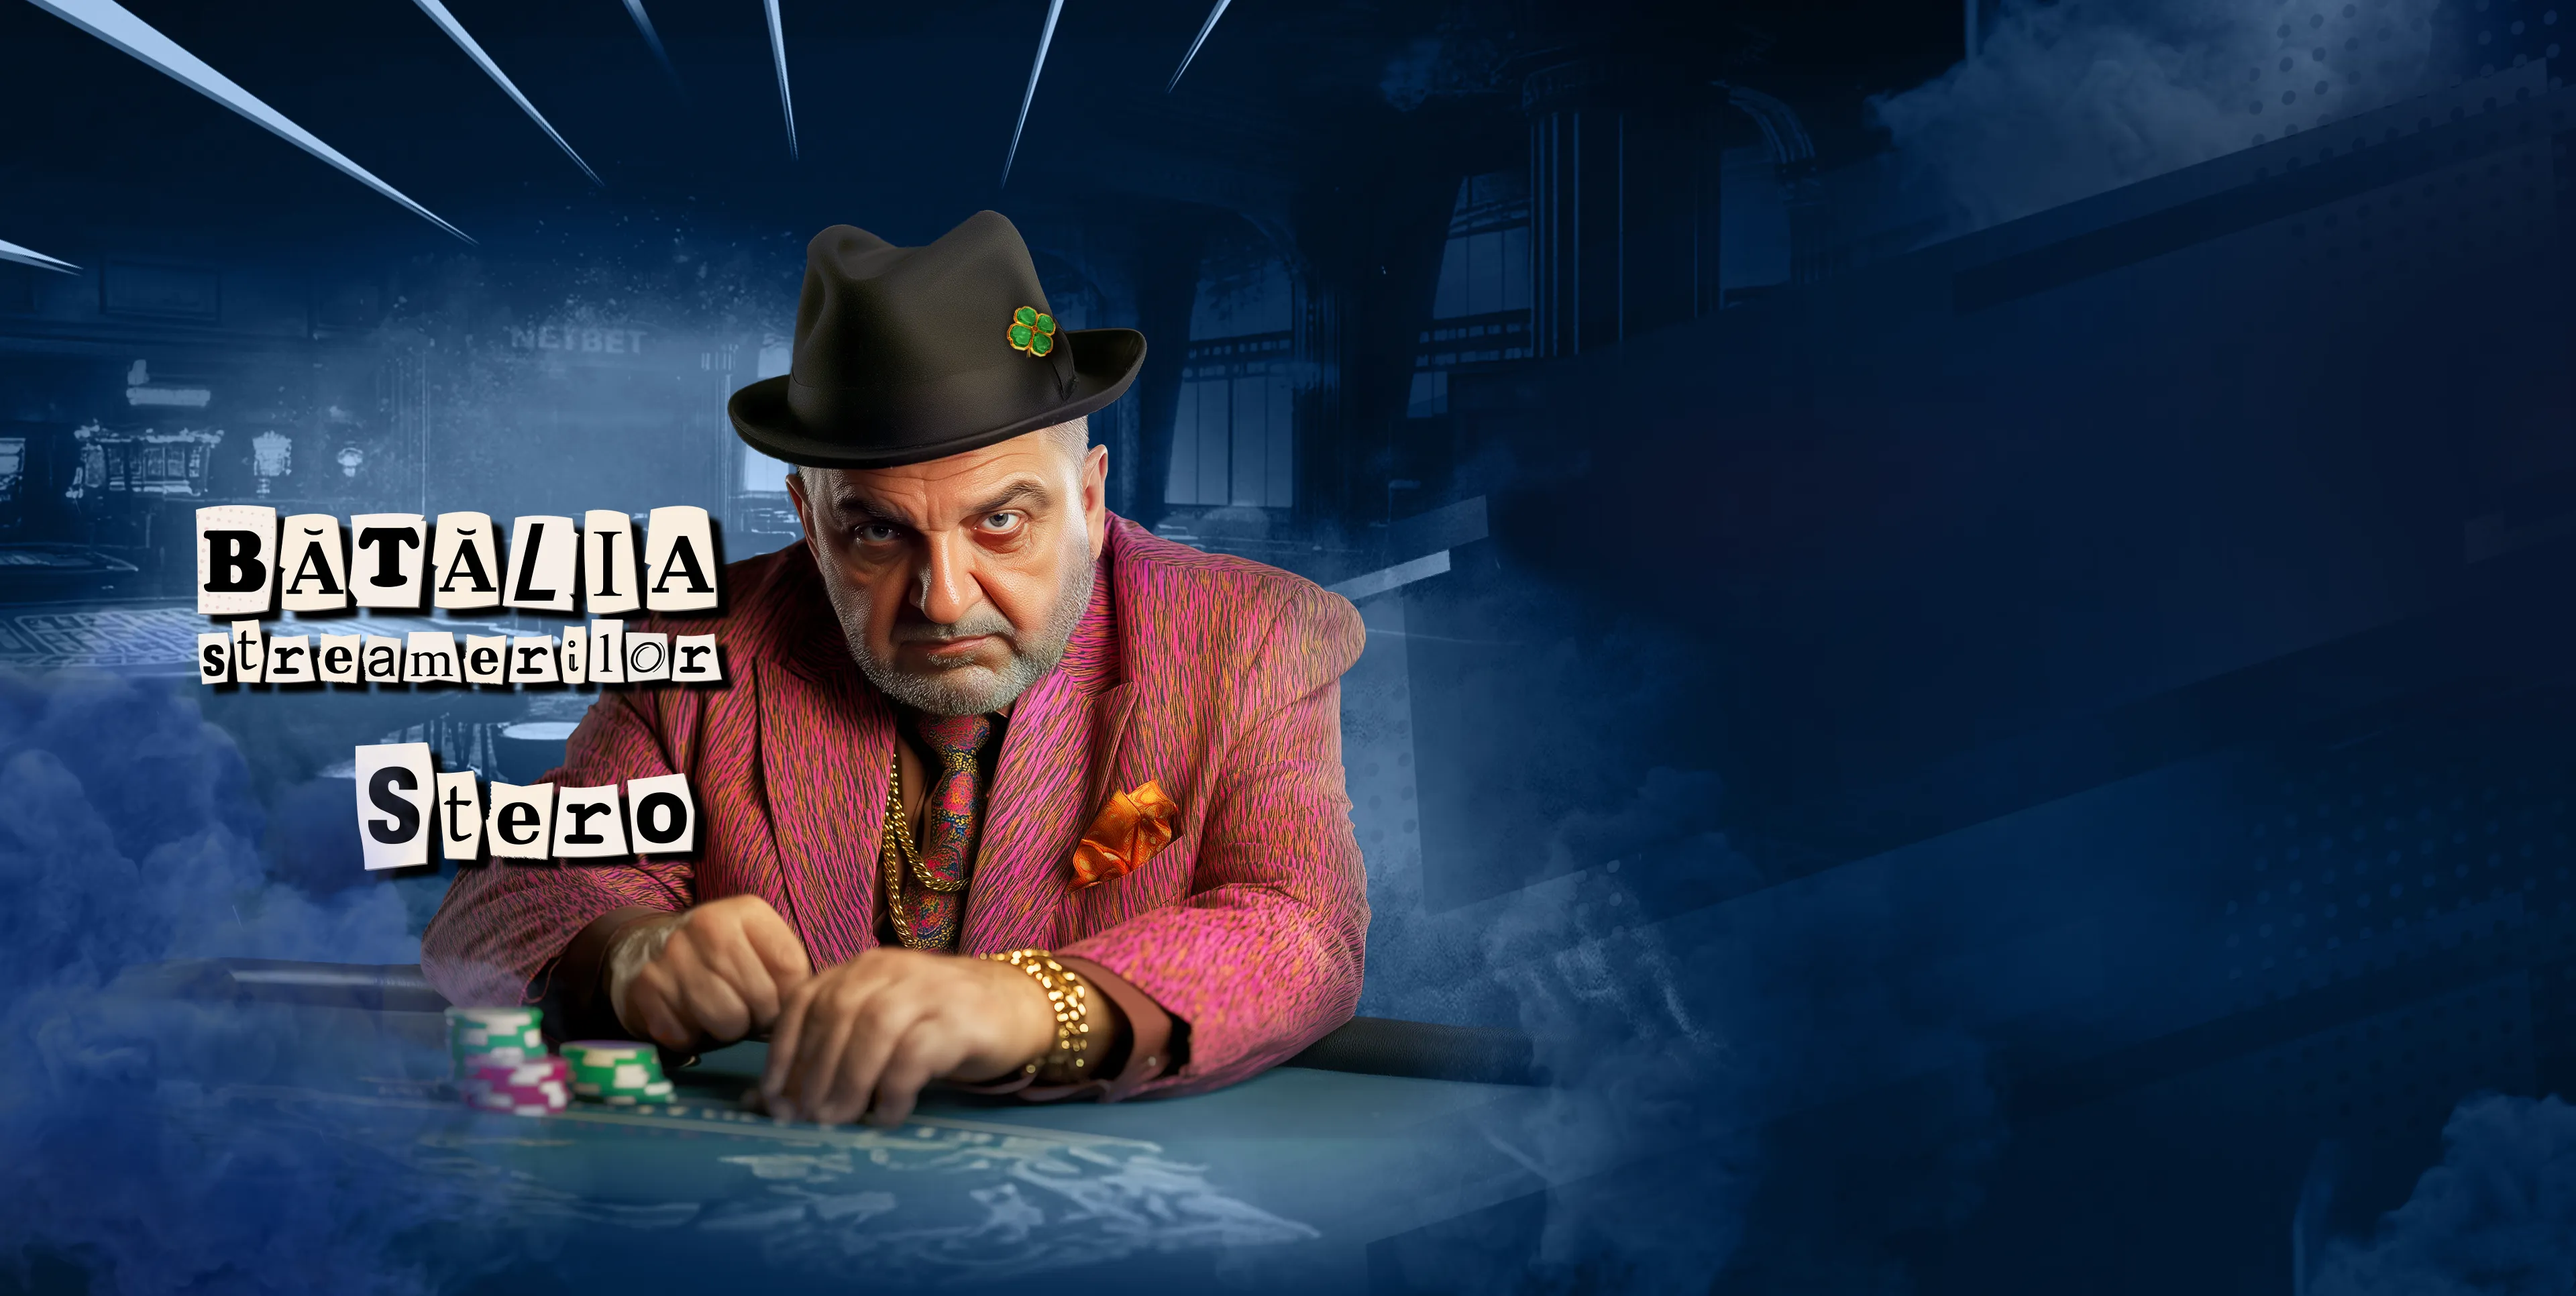
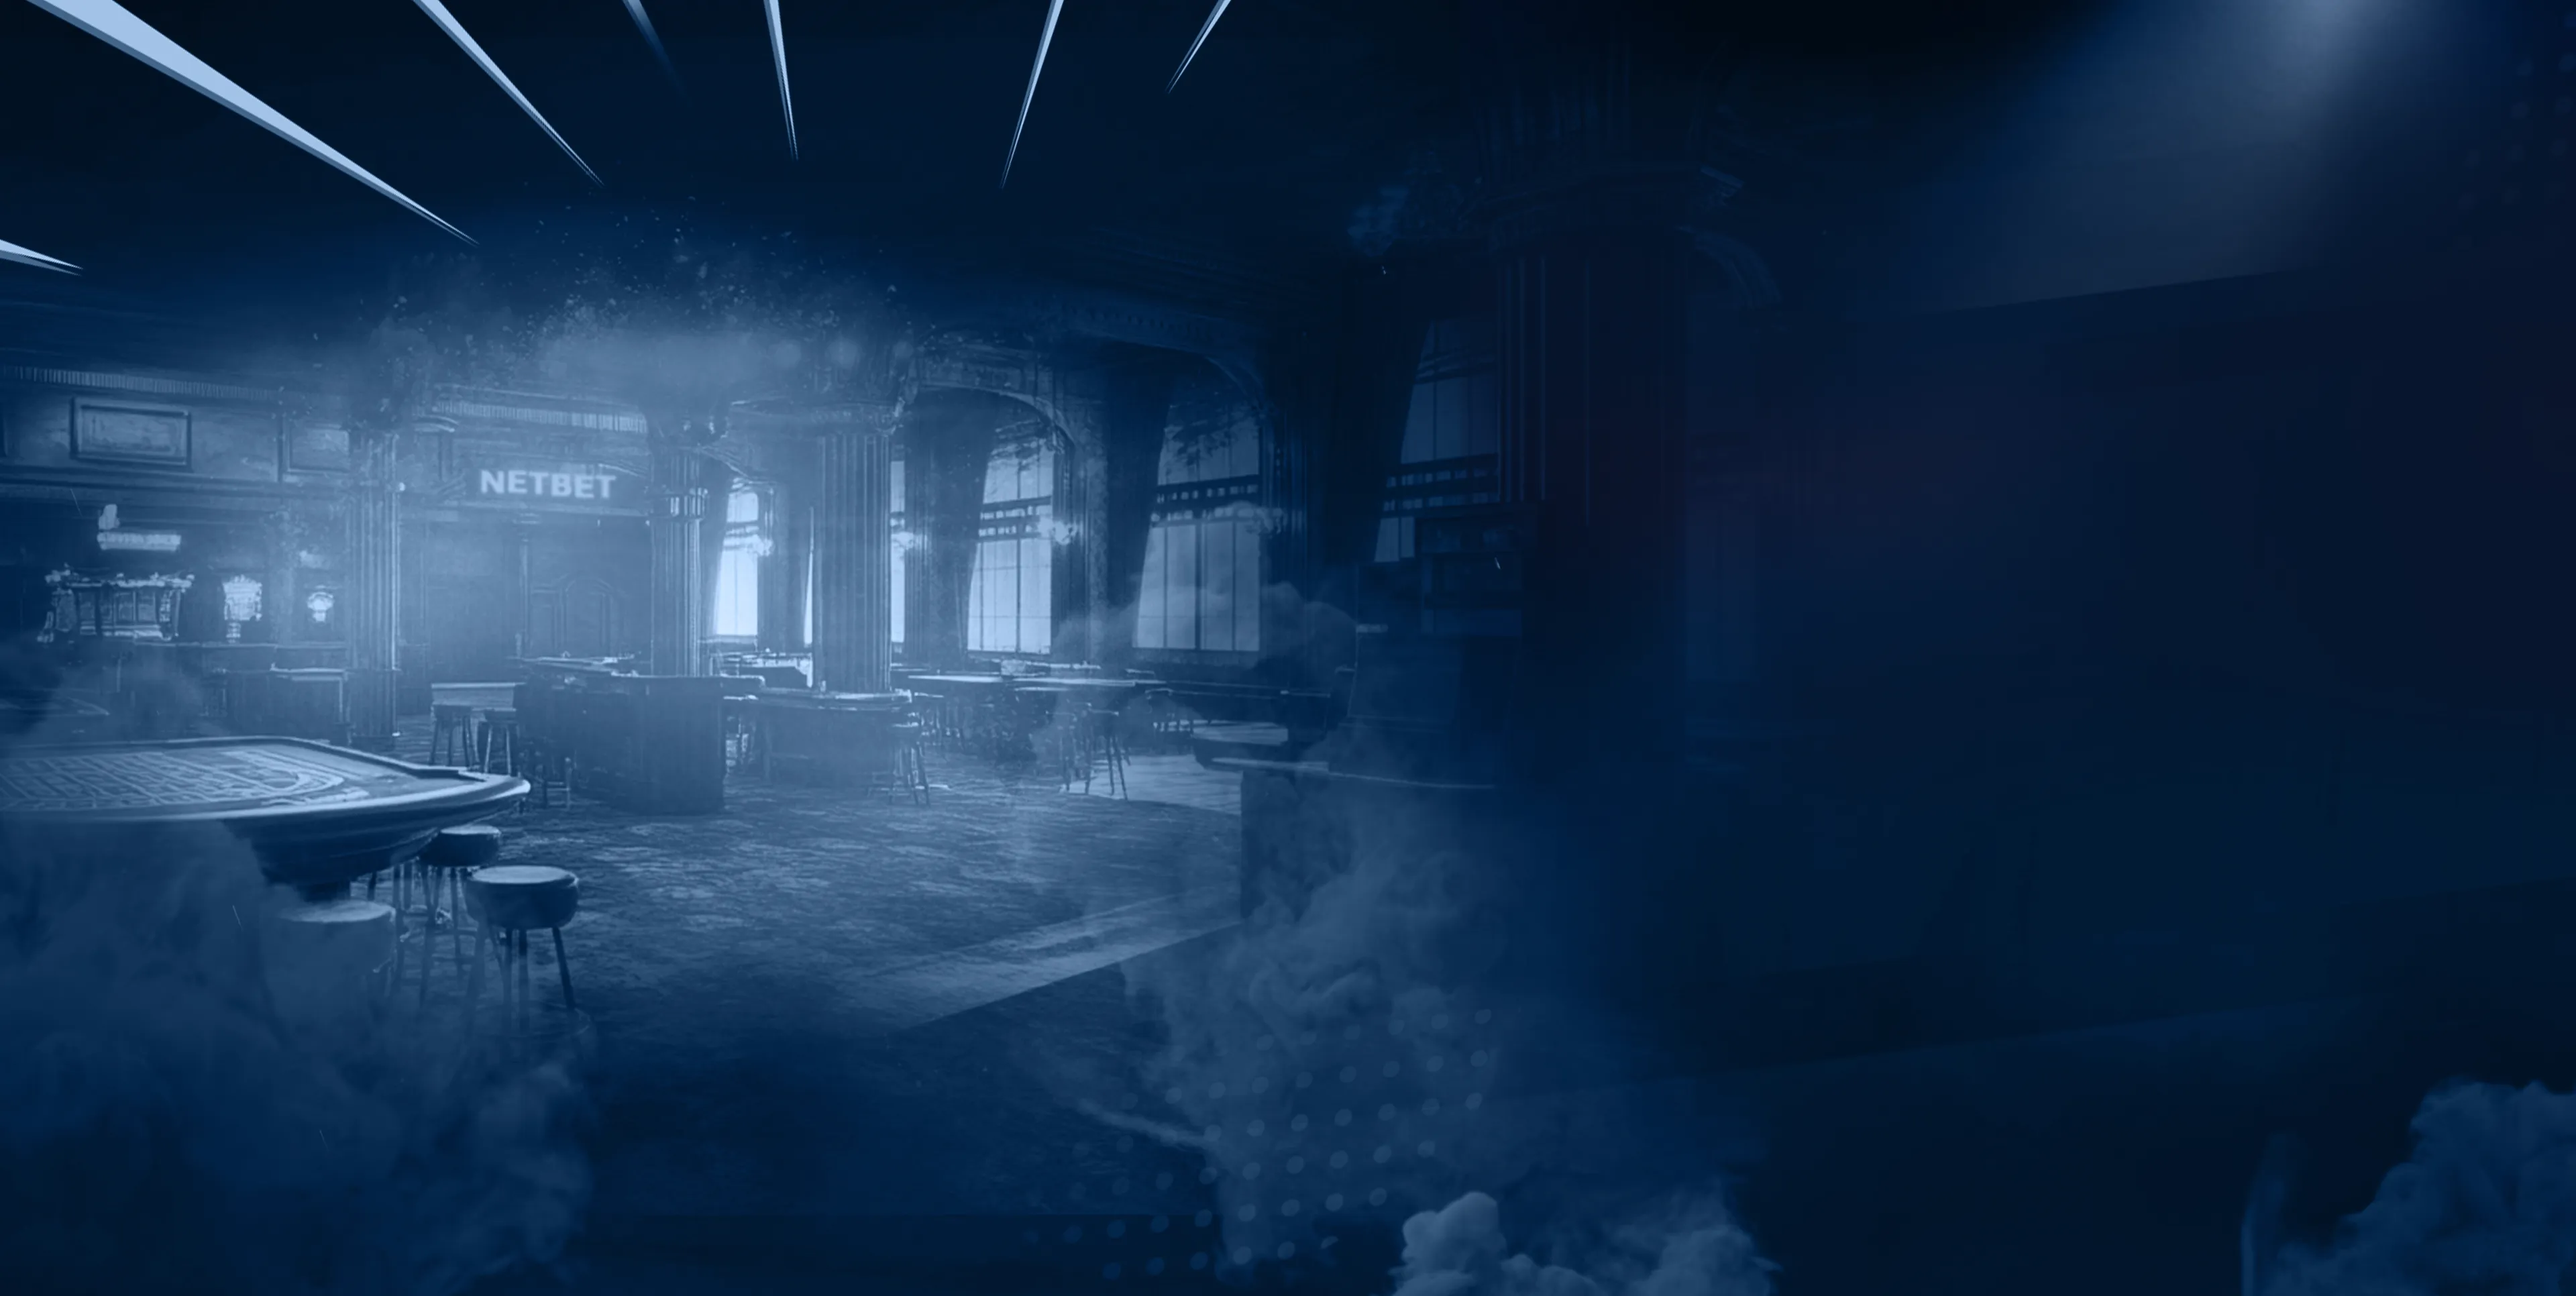
add api and design

diff --git a/batalia-streamerilor-2024/api.js b/batalia-streamerilor-2024/api.js
@@ -1,0 +1,139 @@
+const token = 'testcozmin'; // Replace with actual token
+const baseURL = 'https://qaadmin.livepartners.com/api/streaming/';
+const headers = {
+    'Authorization': `Bearer ${token}`, // Include Bearer token
+    'Content-Type': 'application/json'  // Set content type
+};
+
+// Utility function to make AJAX requests
+function apiRequest(endpoint, method, data = null) {
+    return $.ajax({
+        url: baseURL + endpoint,
+        type: method,
+        headers: headers, // Include headers in the request
+        data: data ? JSON.stringify(data) : null, // Serialize data if present
+        success: function(response) {
+            console.log(`Success: ${method} ${endpoint}`, response);
+        },
+        error: function(xhr, status, error) {
+            console.error(`Error: ${method} ${endpoint}`, {
+                status: status,
+                message: xhr.responseText,
+                error: error
+            });
+            if (xhr.status === 401) {
+                console.error('Unauthorized! Check your token or CORS settings.');
+            } else if (xhr.status === 403) {
+                console.error('Forbidden! You do not have permission to access this resource.');
+            } else if (xhr.status === 0) {
+                console.error('Network Error. CORS issue likely.');
+            }
+        }
+    });
+}
+
+// Function to add a new player
+function addPlayer(username) {
+    return apiRequest(`optin/${username}`, 'POST')
+        .then(response => {
+            console.log(`Player ${username} added:`, response);
+        })
+        .catch(error => {
+            console.error(`Failed to add player ${username}:`, error);
+        });
+}
+
+// Function to delete a player
+function deletePlayer(username) {
+    return apiRequest(`optout/${username}`, 'DELETE')
+        .then(response => {
+            console.log(`Player ${username} deleted.`);
+        })
+        .catch(error => {
+            console.error(`Failed to delete player ${username}:`, error);
+        });
+}
+
+// Function to check if player exists
+function checkPlayerExists(username) {
+    return apiRequest(`check/${username}`, 'GET')
+        .then(response => {
+            console.log(`Player ${username} exists:`, response);
+            return response; // This should return true/false based on API response
+        })
+        .catch(error => {
+            console.error(`Failed to check player ${username}:`, error);
+            return false; // Return false on error
+        });
+}
+
+// Function to get player statistics
+function getPlayerStats(filter = true) {
+    const endpoint = filter ? 'data/' : 'data/0';
+    return apiRequest(endpoint, 'GET')
+        .then(response => {
+            console.log('Player statistics:', response);
+        })
+        .catch(error => {
+            console.error('Failed to get player statistics:', error);
+        });
+}
+
+// Function to get player data for testing
+function getPlayerData(username = null) {
+    const endpoint = username ? `get/${username}` : 'get/';
+    return apiRequest(endpoint, 'GET')
+        .then(response => {
+            console.log(`Player data ${username ? `for ${username}` : ''}:`, response);
+        })
+        .catch(error => {
+            console.error(`Failed to get player data ${username ? `for ${username}` : ''}:`, error);
+        });
+}
+
+// Function to set streamer status
+function setStreamerStatus(username, status) {
+    return apiRequest(`streamer/${username}/${status}`, 'POST')
+        .then(response => {
+            console.log(`Streamer status for ${username} set to ${status}:`, response);
+        })
+        .catch(error => {
+            console.error(`Failed to set streamer status for ${username}:`, error);
+        });
+}
+
+// Example Usage
+async function exampleUsage() {
+    const username = 'billos13';
+
+    try {
+        // Check if player exists
+        const playerExists = await checkPlayerExists(username);
+
+        if (!playerExists) {
+            // Add player if not exists
+            await addPlayer(username);
+        }
+
+        // Get player stats
+        await getPlayerStats();
+
+        // Set streamer status to 1 (active)
+        await setStreamerStatus(username, 1);
+
+        // Check player data in DB (for testing)
+        await getPlayerData(username);
+    } catch (error) {
+        console.error('An error occurred during the example usage process:', error);
+    } finally {
+        // Delete player (to clean up) - cleanup should not throw error
+        try {
+            await deletePlayer(username);
+        } catch (cleanupError) {
+            console.warn('Failed to delete player during cleanup:', cleanupError);
+        }
+    }
+}
+
+// Execute example usage
+exampleUsage();

diff --git a/batalia-streamerilor-2024/index.css b/batalia-streamerilor-2024/index.css
@@ -16,8 +16,15 @@ html {
 }
 
 :root {
+
   --bg-desktop: url(./assets/integrat.webp);
   --bg-mobile: url(./assets/stero3_mob.webp);
+  --bg-sect1:url(./assets/bg/sect1.webp);
+  --bg-sect2:url(./assets/bg/sect2.webp);
+  --bg-sect3:url(./assets/bg/sect3.webp);
+  --bg-sect4:url(./assets/bg/sect4.webp);
+
+
   --cta_color: "";
   --__sport: rgb(100, 176, 0);
   --__casino: transparent linear-gradient(312deg, #1f71ad 0%, #00c0fa 100%) 0%
@@ -210,8 +217,8 @@ footer {
   overflow-x: hidden;
 }
 
-.section:nth-child(1) {
-  height: 100vh;
+.section:nth-child(1),.section:nth-child(2) {
+  height: 100dvh;
 }
 
 @media (orientation: portrait) {
@@ -395,9 +402,32 @@ footer.visible {
   height: 100%;
   display: flex;
   flex-direction: column;
-  justify-content: space-between;
-  align-items: stretch;
+  justify-content: center;
+  align-items: center;
 }
+
+.terms-container {
+  max-width: 1400px;
+margin: 0 auto;
+text-align: start;
+}
+/* .section.s2::after {
+  content: "";
+  position: absolute;
+  top: 0;
+  left: 0;
+  width: 100%;
+  height: 100%;
+  background-image: url(./assets/papper.jpeg);
+  background-position: center;
+  background-size: 140%;
+  background-repeat: no-repeat;
+  mix-blend-mode: hard-light;
+  opacity: 0.5;
+  transform: rotate(180deg);
+ 
+} */
+
 
 
 #scrollToTop {
@@ -421,13 +451,18 @@ footer.visible {
 /* section1 */
 /* section1 */
 /* section1 */
-
-.section.s1 {
-  background-image: var(--bg-desktop);
+.section.s1,.section.s2,.section.s3,footer{
   background-position: center;
   background-size: cover;
   background-repeat: no-repeat;
-  mask: var(--mask);
+}
+.section.s1 {
+  background-image: var(--bg-sect1);
+  /* mask: var(--mask); */
+}
+.carousel:not(:nth-child(1)) {
+/* display: none; */
+
 }
 
 @media (max-width: 991px) {
@@ -436,6 +471,20 @@ footer.visible {
   }
 }
 
+.section.s2  {
+  position: relative;
+background-image: var(--bg-sect4);
+}
+.section.s3 {
+  position: relative;
+  background-image:var(--bg-sect2);
+  color: white;
+}
+
+footer {
+  position: relative;
+  background-image: url(./assets/bg/sect3.webp) !important;
+}
 /* Offer */
 /* Offer */
 /* Offer */
@@ -530,7 +579,7 @@ footer.visible {
 /* section 3 */
 /* section 3 */
 .section.s3 {
-  background: #f0f0f0;
+  /* background: #f0f0f0; */
   color: black;
 }
 /* end section 3 */
@@ -541,7 +590,7 @@ footer.visible {
 /* footer */
 /* footer */
 footer {
-  background: var(--header_color);
+  /* background: var(--header_color); */
   padding: 20px;
   color: var(--color_white);
   text-align: center;

diff --git a/batalia-streamerilor-2024/index.html b/batalia-streamerilor-2024/index.html
@@ -113,7 +113,7 @@
     </section>
     <section class="section s2" id="section2">
       <div class="parent">
-        <div class="section_title mb-4">
+        <div class="section_title">
           <h2>INformation Games</h2>
           <p>Lorem ipsum dolor sit amet consectetur adipisicing elit. Ea aliquam labore saepe
             maxime
@@ -138,7 +138,7 @@
             </div>
           </div>
         </div>  
-          <div class="section_title m-4">
+          <div class="section_title">
             <p>Lorem ipsum dolor sit amet consectetur adipisicing elit. Doloremque
               exercitationem
               neque veritatis minus molestiae impedit aspernatur itaque, ratione dolorum sint sunt et modi aperiam
@@ -497,6 +497,7 @@
   <script src="./games.js"></script>
   <script src="./tables.js"></script>
   <script src="./carousel.js"></script>
+  <script src="./api.js"></script>
 </body>
 
 </html>

diff --git a/batalia-streamerilor-2024/text.html b/batalia-streamerilor-2024/text.html
@@ -1,0 +1,25 @@
+<!DOCTYPE html>
+<html lang="en">
+<head>
+    <meta charset="UTF-8">
+    <meta name="viewport" content="width=
+    , initial-scale=1.0">
+    <title>Document</title>
+</head>
+<style>
+    .container_test {
+        background: linear-gradient(
+      to bottom,
+      rgba(0, 0, 0, 1) 0,
+      rgba(0, 0, 0, 1) 95%,
+      rgba(0, 0, 0, 0) 100%,
+      rgba(0, 0, 0, 0) 0
+    )
+    100% 0% / 100% 100% repeat-x;
+    height: 100%;
+    }
+</style>
+<body>
+    <div class="container_test">test</div>
+</body>
+</html>

diff --git a/batalia-streamerilor-2024/css/carousel.css b/batalia-streamerilor-2024/css/carousel.css
@@ -80,7 +80,7 @@
 .blaze-slider {
   position: relative;
 }
-#image-carousel .blaze-track-container::after{
+/* #image-carousel .blaze-track-container::after{
   content: "";
   position: absolute;
   top: 0;
@@ -90,7 +90,7 @@
   background: linear-gradient(to bottom, rgb(11 24 72), rgb(4 12 37) 105%, rgba(0, 0, 0, 0) 100%, rgba(0, 0, 0, 0) 0) 100% 0% / 100% 100% repeat-x;
   mask: var(--mask-reverse);
   z-index: -1;
-}
+} */
 .blaze-track-container {
   position: relative;
   z-index: 1;
